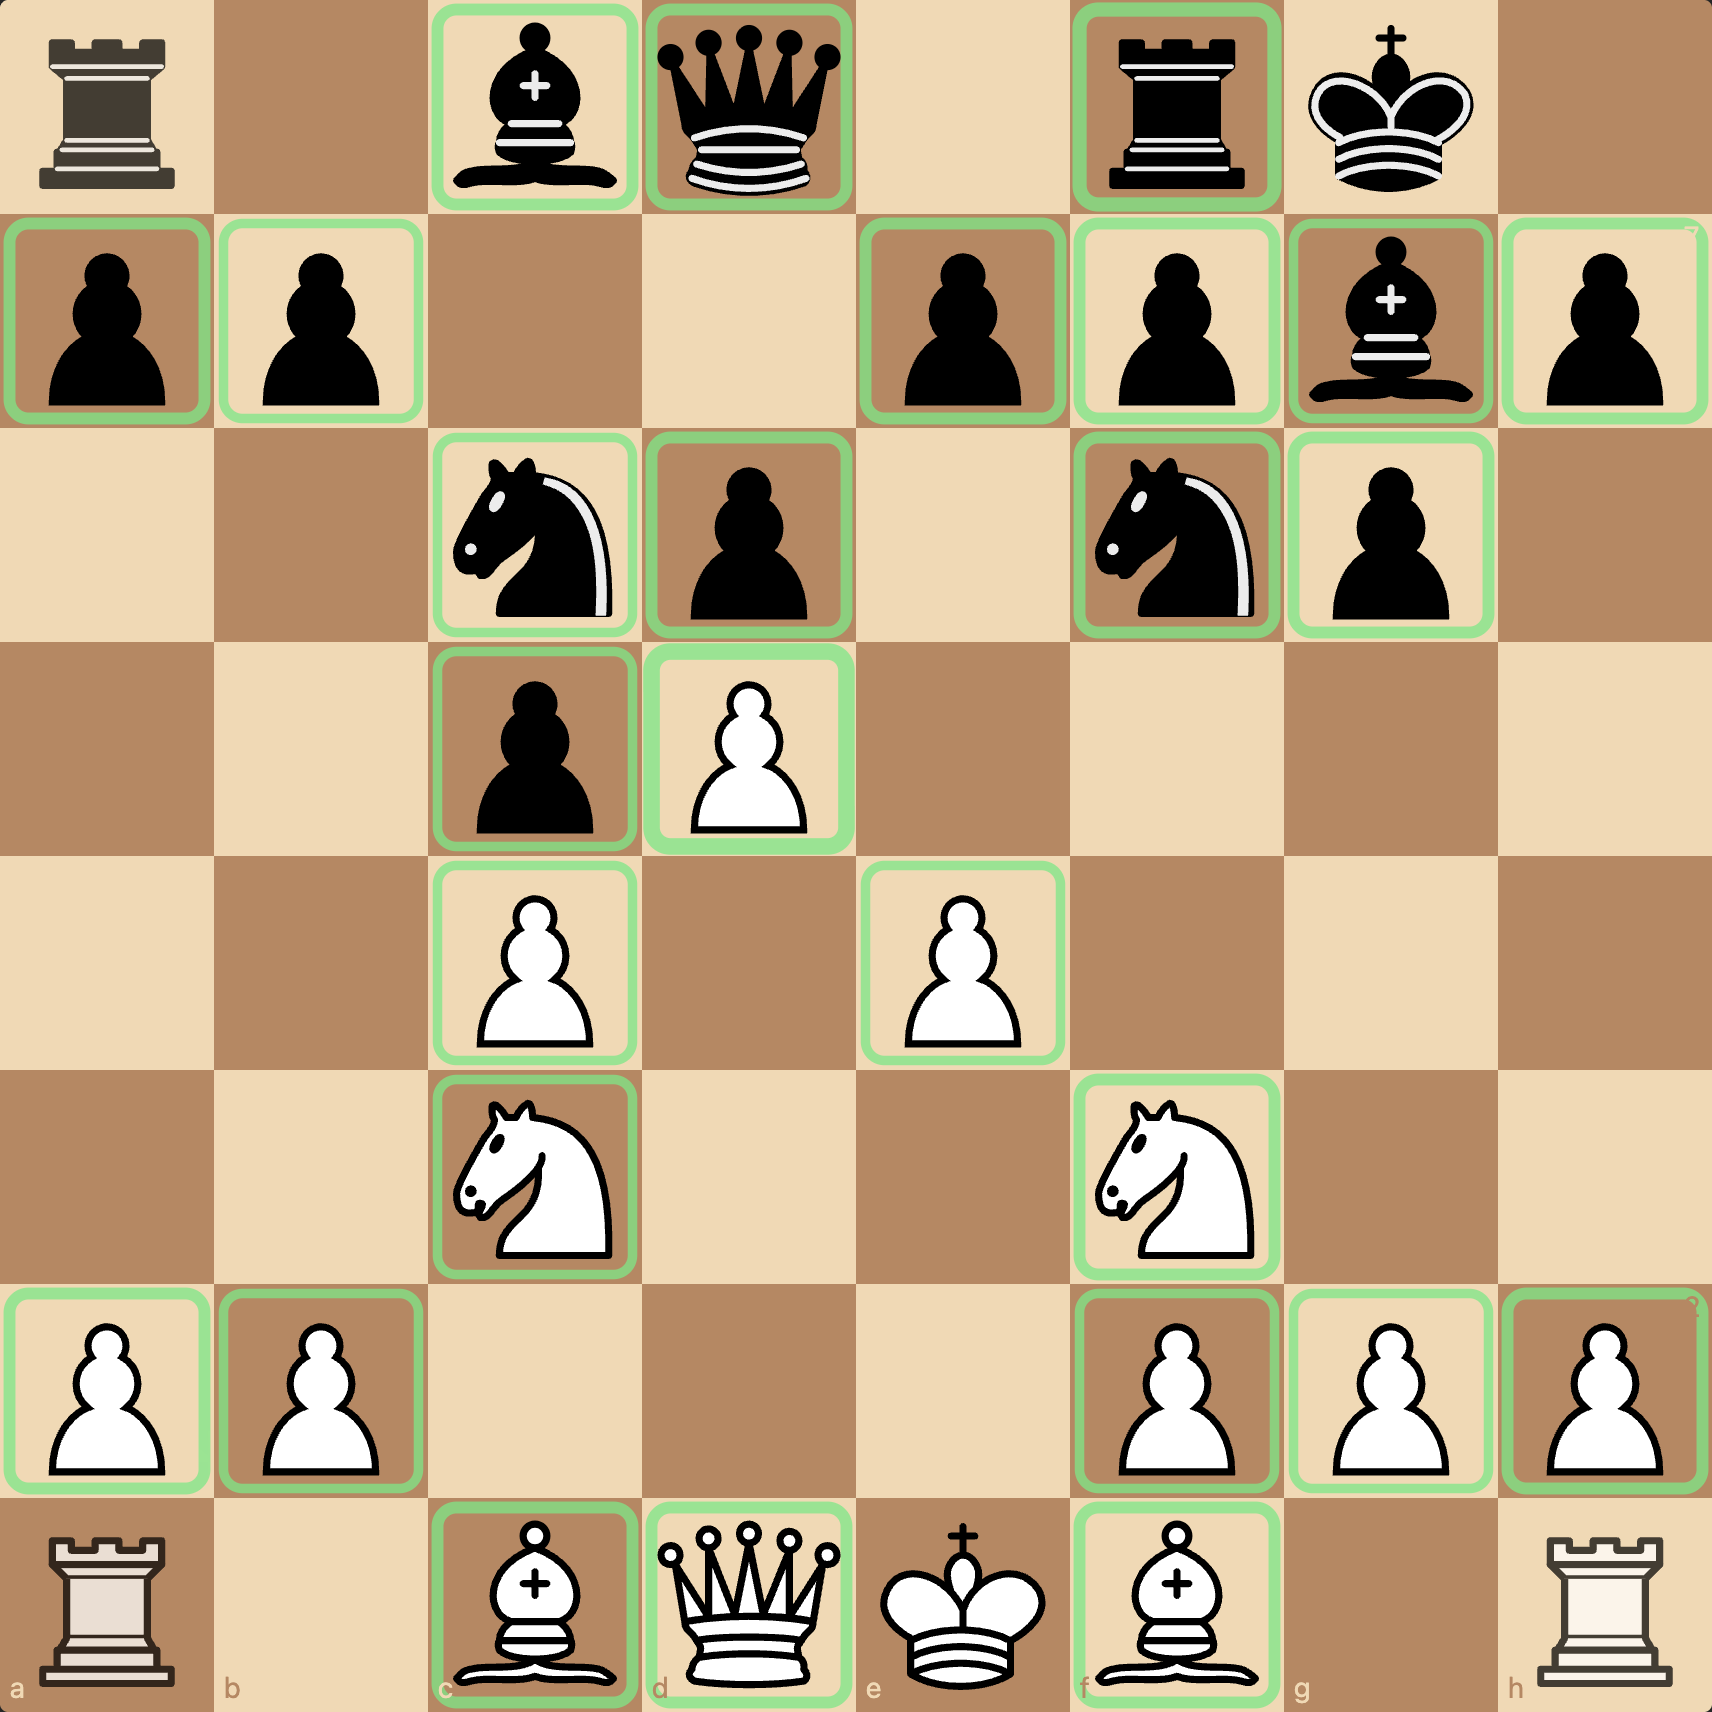
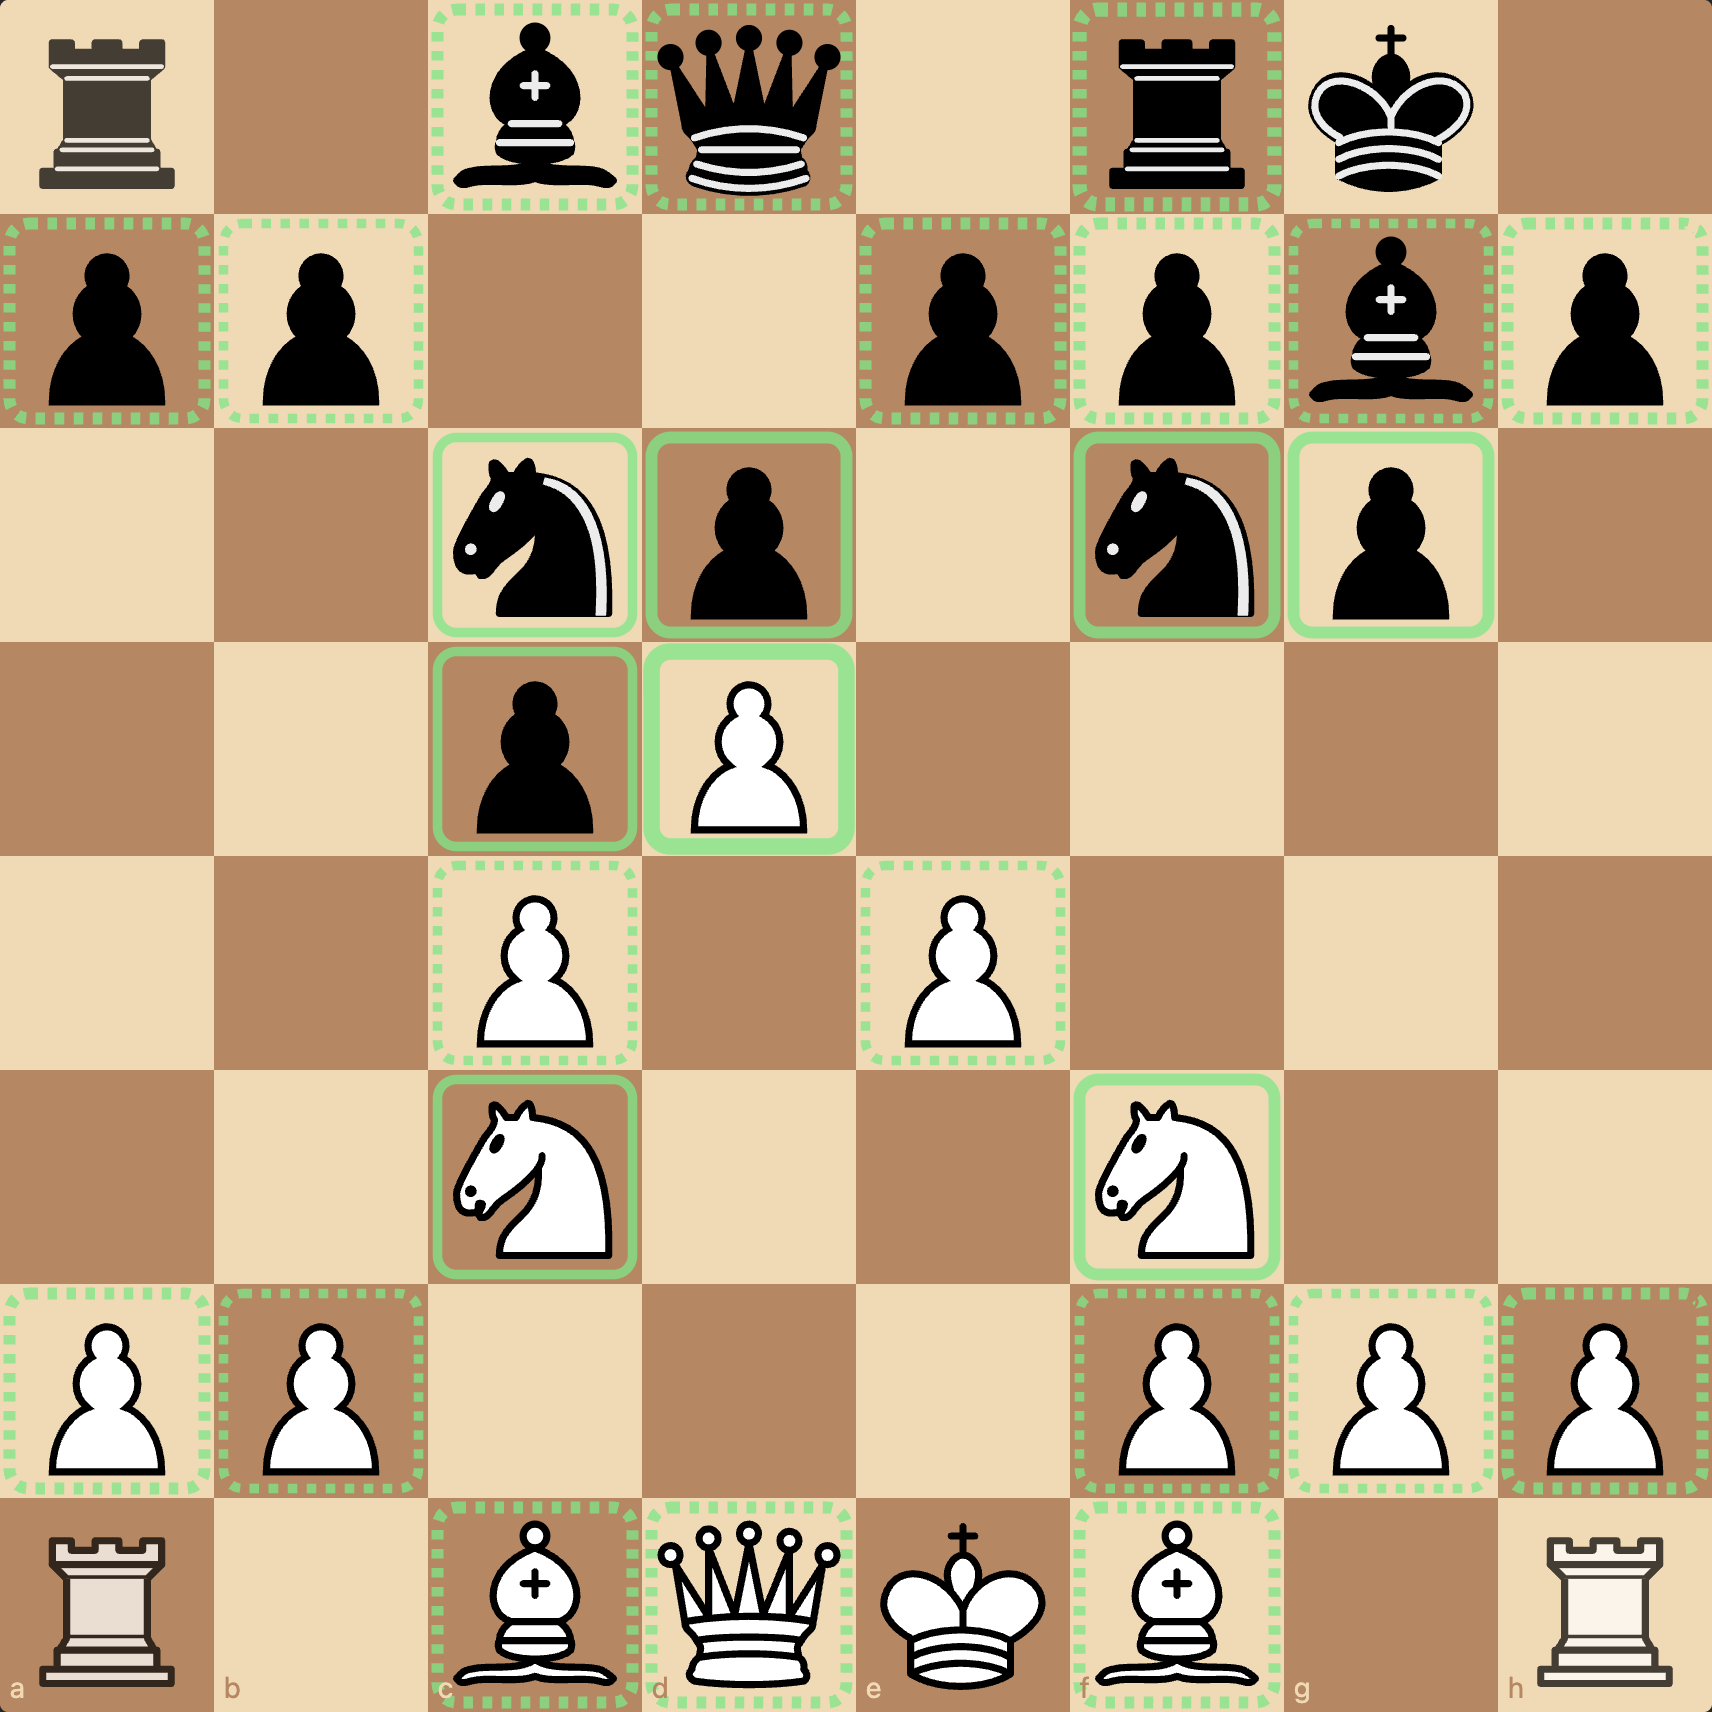
viz 3: dotted ring for piece-only defenders (deflectable), plus a teaching position

diff --git a/js/viz3-pins.js b/js/viz3-pins.js
@@ -22,29 +22,34 @@ export function render(container, fen, controls) {
   container.replaceChildren(svg);
 
   // Protection rings, drawn under the pieces.
+  // We split pawn defenders from piece defenders: pieces protected only by other pieces
+  // (no pawn anchor) are deflectable. Render those with a dotted green ring instead of a solid
+  // one. The defender can be attacked / chased / pinned and the protected piece falls with it.
   for (let i = 0; i < 64; i++) {
     const p = board[i];
     if (!p || p.piece === 'K') continue;
-    const friendly = defenders[i].length;
+    const friendly = defenders[i];
+    const friendlyCount = friendly.length;
     const enemy = ctrl[i][p.color === 'w' ? 'b' : 'w'].length;
-    const isHanging = enemy > 0 && friendly === 0;
+    const isHanging = enemy > 0 && friendlyCount === 0;
+    const hasPawnAnchor = friendly.some(j => board[j].piece === 'P');
 
     const { x, y } = squareXY(i);
-    if (friendly > 0 && !isHanging) {
-      const ring = el('rect', {
+    if (friendlyCount > 0 && !isHanging) {
+      const attrs = {
         x: x + 4, y: y + 4, width: SQ - 8, height: SQ - 8,
         fill: 'none', rx: 8, ry: 8,
-        stroke: '#7ee787', 'stroke-width': Math.min(3 + friendly, 8),
+        stroke: '#7ee787', 'stroke-width': Math.min(3 + friendlyCount, 8),
         opacity: 0.75,
-      });
-      layers.control.appendChild(ring);
+      };
+      if (!hasPawnAnchor) attrs['stroke-dasharray'] = '4 4';
+      layers.control.appendChild(el('rect', attrs));
     } else if (isHanging) {
-      const ring = el('rect', {
+      layers.control.appendChild(el('rect', {
         x: x + 4, y: y + 4, width: SQ - 8, height: SQ - 8,
         fill: 'none', rx: 8, ry: 8,
         stroke: '#ff6b6b', 'stroke-width': 3, 'stroke-dasharray': '5 4', opacity: 0.9,
-      });
-      layers.control.appendChild(ring);
+      }));
     }
   }
 
@@ -153,7 +158,8 @@ export function buildControls(root, state, onChange) {
 export function legendHTML() {
   return `
     <div><span class="swatch" style="background: rgba(140,220,255,0.6); border: 1px solid #cdf"></span> Ice, pinned piece. Big tall spikes = pinned against the king or the queen (high stakes). Small low cluster = pinned against a less valuable piece.</div>
-    <div style="margin-top: 6px;"><span class="swatch" style="background: rgba(126,231,135,0.4); border: 2px solid #7ee787"></span> Green ring, piece is defended (thicker = more defenders).</div>
+    <div style="margin-top: 6px;"><span class="swatch" style="background: rgba(126,231,135,0.4); border: 2px solid #7ee787"></span> Solid green ring, piece is defended <i>and at least one defender is a pawn</i>. Pawn-anchored defenders are sticky.</div>
+    <div style="margin-top: 6px;"><span class="swatch" style="background: rgba(126,231,135,0.4); border: 2px dashed #7ee787"></span> Dotted green ring, piece is defended <i>only by other pieces</i> (no pawn anchor). This is a <b>deflectable</b> piece, attack the defender and the original piece falls with it.</div>
     <div style="margin-top: 6px;">Undefended pieces fade to a ghostly outline. If the piece is <i>also</i> attacked, a red dashed ring is drawn around it (hanging) and the fade is heavier.</div>
     <div style="margin-top: 6px;">Pin line is dashed in the attacker's color, pink if a white piece is doing the pinning, blue if it's a black piece.</div>
   `;

diff --git a/js/positions.js b/js/positions.js
@@ -58,6 +58,11 @@ export const POSITIONS = [
     fen: '8/8/8/3N4/8/8/8/8 w - - 0 1',
     notes: 'Knight reach theme, isolated. Single white knight on d5 on an otherwise empty board, the reach map fills almost everything inside 3 moves.',
   },
+  {
+    name: 'Deflection, the weak defender',
+    fen: '5rk1/1b3ppp/2n1p3/3pN3/3P4/4P3/P1P2PPP/1R4K1 w - - 0 1',
+    notes: 'Deflection theme. Nc6 is defended only by Bb7 (dotted green ring, no pawn anchor). Bb7 itself has no defender, and the b-file is clear. White plays Rxb7!, then Nxc6, winning bishop + knight for free. Naroditsky calls piece-only-defended pieces "deflectable".',
+  },
 ];
 
 export const DEFAULT_FEN = POSITIONS[1].fen;
